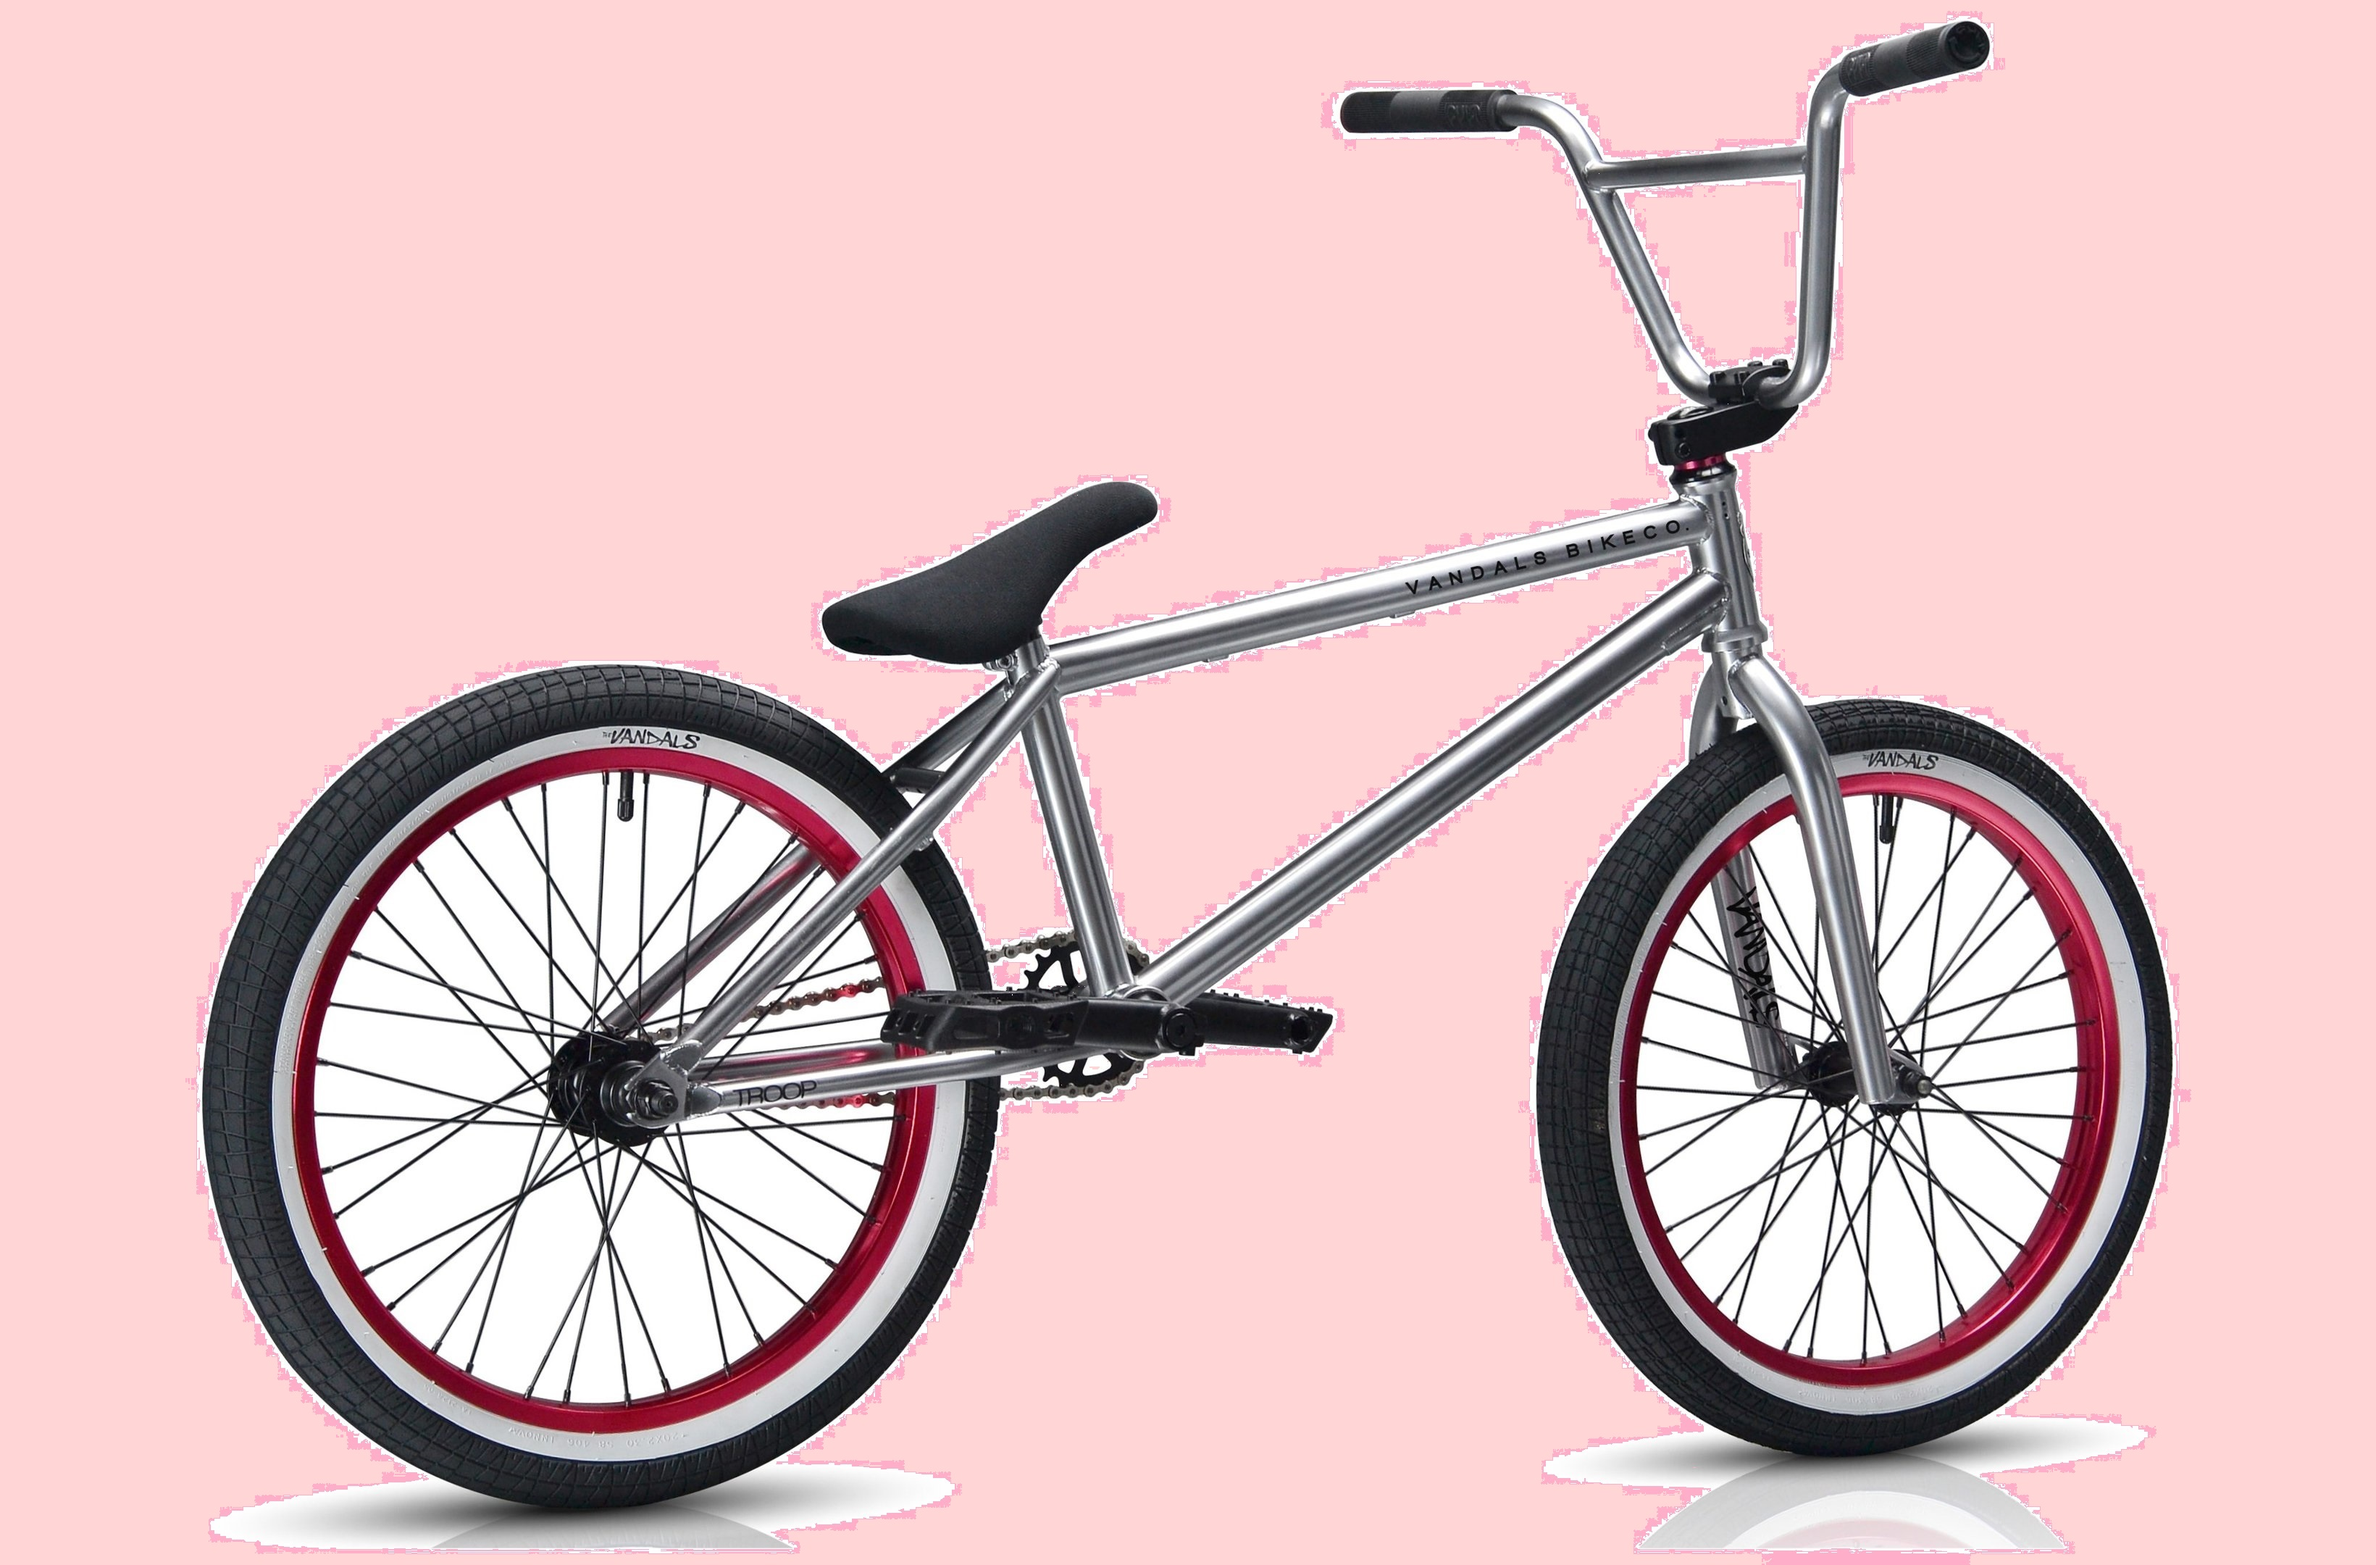
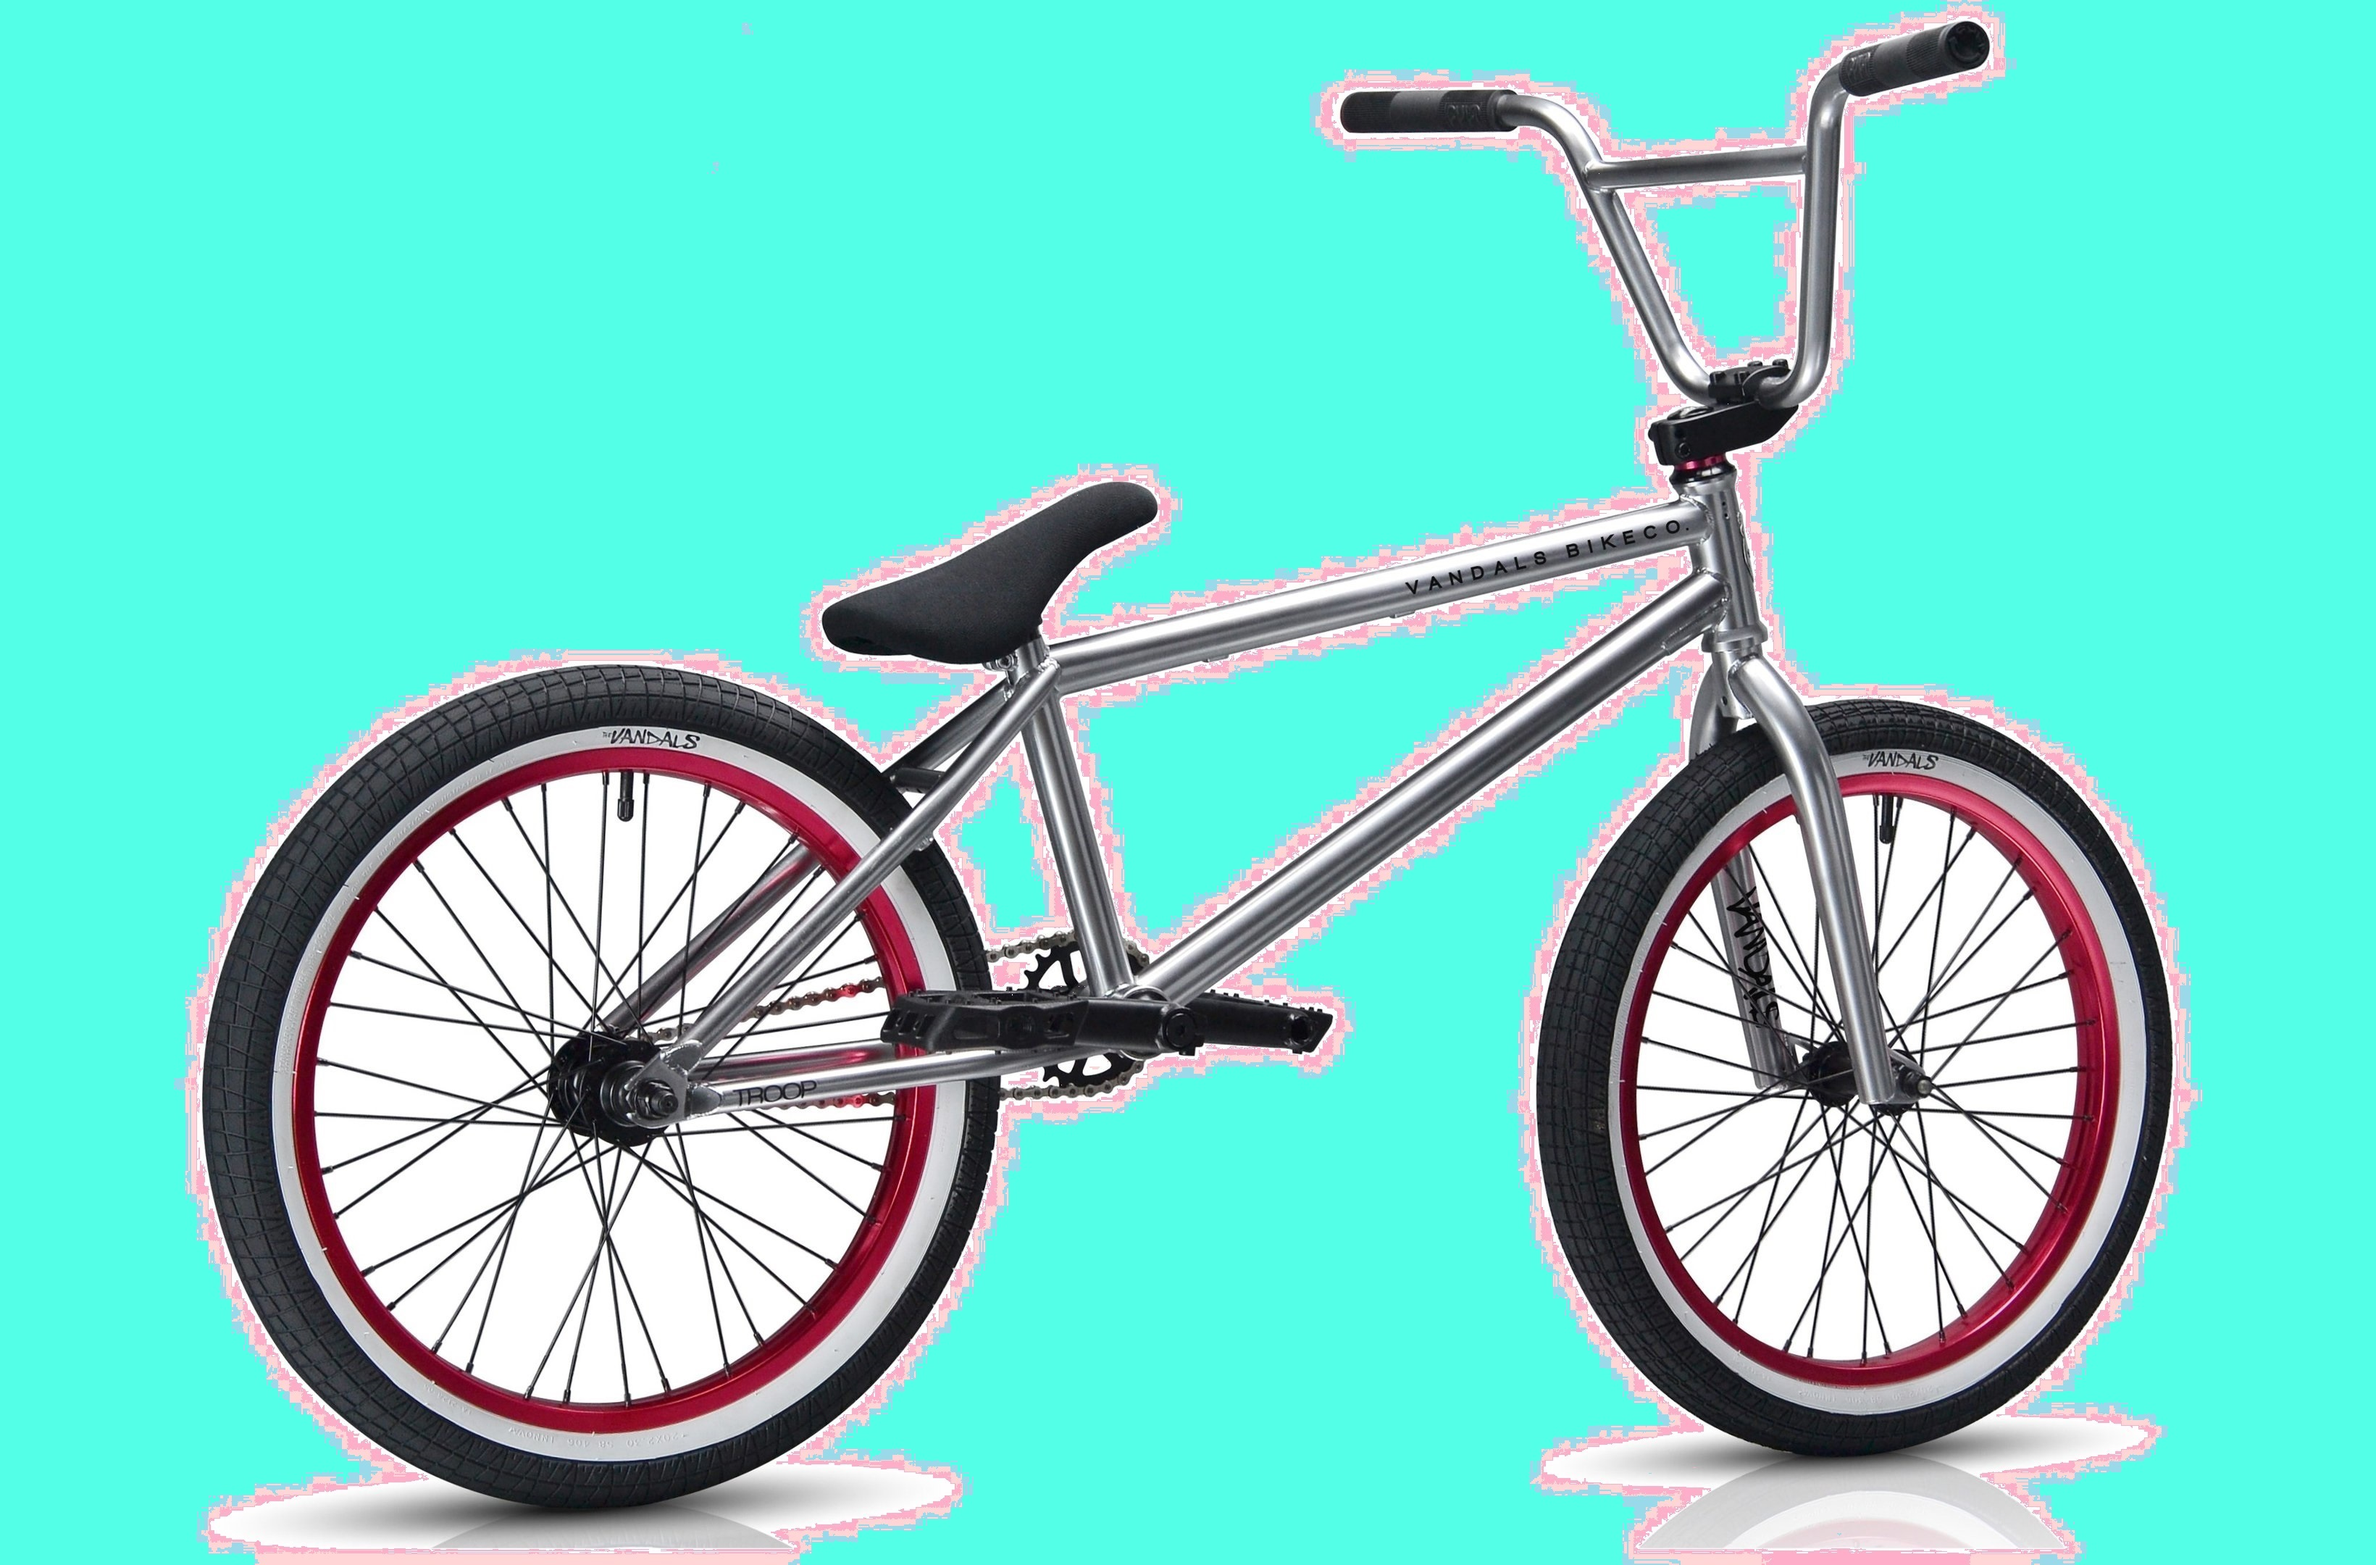
updating some details

diff --git a/index.html b/index.html
@@ -30,7 +30,7 @@
         </div>
          <div class="row">
              <div class="col-2">
-                 <h1>Give Your Workout<br>A New Style!</h1>
+                 <h1>Don't Buy Upgrades <br>Ride Up Grades!</h1>
                   <p>Success isn't always about greatness. It is about consistency. Consistence <br>hard work gain success. Greatness will come.</p>        
                   <a href="" class="btn"><span>Explore now </span>  &#8594;</a>
                 </div>
@@ -115,7 +115,7 @@
        <h2 id="Products" class="title">Latest Products </h2>
        <div class="row">
         <div class="col-4">
-            <img src="https://www.solidrop.net/photo-6/newly-baby-walker-with-wheels-toddler-safety-anti-rollover-seat-music-first-steps-toys-infant-walkers-multifunctional-car.jpg" >
+            <img src="https://tse2.mm.bing.net/th?id=OIP.6DE_Mh517fRpgvVX8eC9PwHaHa&pid=Api&P=0&w=300&h=300" >
             <h4>Music Walker </h4>
             <div class="rating">
              <i class="fa fa-star" ></i>

diff --git a/style.css b/style.css
@@ -121,7 +121,7 @@ p{
      background: #563434;
  }
  .header{
-     background: radial-gradient(#ffd6d6,#ffd6d6);
+     background: radial-gradient(rgb(84, 255, 232),rgb(84, 255, 232));
  }
  .header .row{
      margin-top: 70px;
